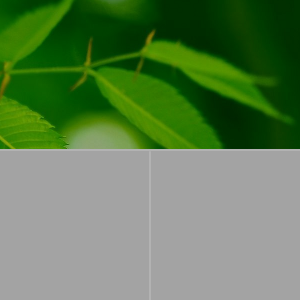
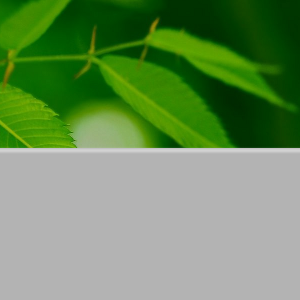
5days forecast and slide effect

Changed region(s): [[0.0, 0.0, 1.0, 0.51], [0.3, 0.0, 0.45, 0.06]]

diff --git a/src/pad_detail.py b/src/pad_detail.py
@@ -9,7 +9,7 @@ from gettext import gettext as _
 gettext.bindtextdomain("newX", "../locale")
 gettext.textdomain("newX")
 
-from utils import (fade_in, fade_out)
+from utils import (fade_in, fade_out, fancy_move_x)
 
 class WeatherForecastWindow(gtk.Window):
     '''
@@ -27,12 +27,37 @@ class WeatherForecastWindow(gtk.Window):
         self.set_skip_taskbar_hint(True)
         self.set_colormap(gtk.gdk.Screen().get_rgba_colormap())        
         
+        self.DRAG_POS_X = 0
+        
         self.area = gtk.DrawingArea()
         self.area.add_events(gtk.gdk.ALL_EVENTS_MASK)
         self.area.connect("expose-event", self.area_expose, weather_info)
+        self.area.connect("enter-notify-event", self.enter_notify_callback)
+        self.area.connect("leave-notify-event", lambda w, e : self.self_fade_out_destroy(self.master_win))
+        self.area.connect("button-press-event", self.button_press_callback)
+        self.area.connect("button-release-event", self.button_release_callback)
         
         self.add(self.area)
         self.show_all()
+        
+    def enter_notify_callback(self, widget, event):
+        if hasattr(self, "fade_out_id"):
+            gobject.source_remove(self.fade_out_id)
+        if hasattr(self, "destroy_id"):
+            gobject.source_remove(self.destroy_id)
+        self.set_opacity(1)
+        
+    def button_press_callback(self, widget, event):
+        coord_x = event.x
+        coord_y = event.y
+
+        if 0 <= coord_x <= 300 and 150 <= coord_y <= 300:
+            self.drag_begin_pos = coord_x
+            self.drag_begin_time = event.time
+        
+    def button_release_callback(self, widget, event):
+        v = (event.x - self.drag_begin_pos) / (event.time - self.drag_begin_time)
+        gobject.timeout_add(10, fancy_move_x, 10, v, self, -450, 0)
 
     def area_expose(self, widget, event, weather_info):
         cr = widget.window.cairo_create()
@@ -70,52 +95,40 @@ class WeatherForecastWindow(gtk.Window):
         cr.move_to(10, 96)
         context.update_layout(layout)
         context.show_layout(layout)
+        
+        pixbuf_sep = gtk.gdk.pixbuf_new_from_file("../data/images/seperator.png")
+        
+        for i in 1, 2, 3, 4, 5:
+            cr.set_source_rgb(0, 0, 0)
+            layout.set_text(weather_info["forecast" + str(i)]["text"])
+            cr.move_to(self.DRAG_POS_X + 10 + 150 * (i - 1), 263)
+            context.update_layout(layout)
+            context.show_layout(layout)
+        
+            layout.set_text(weather_info["forecast" + str(i)]["low"] + weather_info["forecast" + str(i)]["high"])
+            cr.move_to(self.DRAG_POS_X + 10 + 150 * (i - 1), 280)
+            context.update_layout(layout)
+            context.show_layout(layout)
+        
+            layout.set_text(weather_info["forecast" + str(i)]["day"])
+            cr.move_to(self.DRAG_POS_X + 105 + 150 * (i - 1), 280)
+            context.update_layout(layout)
+            context.show_layout(layout)
 
-        cr.set_source_rgb(0, 0, 0)
-        layout.set_text(weather_info["forecast1"]["text"])
-        cr.move_to(10, 263)
-        context.update_layout(layout)
-        context.show_layout(layout)
-        
-        layout.set_text(weather_info["forecast1"]["low"] + "~" + weather_info["forecast1"]["high"])
-        cr.move_to(10, 280)
-        context.update_layout(layout)
-        context.show_layout(layout)
-        
-        layout.set_text(_("Today"))
-        cr.move_to(100, 280)
-        context.update_layout(layout)
-        context.show_layout(layout)
+            cr.set_source_pixbuf(pixbuf_sep, self.DRAG_POS_X + 149 * i, 175)
+            cr.paint()
 
-        layout.set_text(weather_info["forecast2"]["text"])
-        cr.move_to(165, 263)
-        context.update_layout(layout)
-        context.show_layout(layout)
-        
-        layout.set_text(weather_info["forecast2"]["low"] + "~" + weather_info["forecast2"]["high"])
-        cr.move_to(165, 280)
-        context.update_layout(layout)
-        context.show_layout(layout)
-        
-        layout.set_text(_("Tomorrow"))
-        cr.move_to(240, 280)
-        context.update_layout(layout)
-        context.show_layout(layout)
 
-        pixbuf1 = gtk.gdk.pixbuf_new_from_file("../data/images/icons/" + weather_info["forecast1"]["pic"] + ".png")
-        cr.set_source_pixbuf(pixbuf1, 10, 160)
-        cr.paint()
-        
-        pixbuf2 = gtk.gdk.pixbuf_new_from_file("../data/images/icons/" + weather_info["forecast2"]["pic"] + ".png")
-        cr.set_source_pixbuf(pixbuf2, 160, 160)
-        cr.paint()
-
-        
-        self.set_opacity(0)
-        gobject.timeout_add(50, fade_in, self)
+            pixbuf_forecast = gtk.gdk.pixbuf_new_from_file("../data/images/icons/" + 
+                                                           weather_info["forecast" + str(i)]["pic"] + ".png")
+            cr.set_source_pixbuf(pixbuf_forecast, self.DRAG_POS_X + 10 + 150 * (i - 1), 165)
+            cr.paint()
         
         
-    def self_fade_out_destroy(self):
+    def self_fade_out_destroy(self, master_win):
         self.set_opacity(1)
-        gobject.timeout_add(30, fade_out, self)
-        gobject.timeout_add(700, self.destroy)
+        self.master_win = master_win
+        self.fade_out_id = gobject.timeout_add(30, fade_out, self)
+        self.destroy_id = gobject.timeout_add(700, self.destroy)
+        if hasattr(master_win, "forecast_window"):
+            del master_win.forecast_window

diff --git a/src/yahoo_service.py b/src/yahoo_service.py
@@ -117,26 +117,45 @@ def get_weather_information_by_woeid(woeid, place):
         if weather_condition["visibility"] == u"":
             weather_condition["visibility"] = _("Unknown")
         
-        weather_forecast_eles = root.getElementsByTagName("yweather:forecast")
-        for index, ele in enumerate(weather_forecast_eles):
-            index += 1
-            weather_condition["forecast" + str(index)] = {}
-            weather_condition["forecast" + str(index)]["low"] = ele.getAttribute("low")
-            weather_condition["forecast" + str(index)]["high"] = ele.getAttribute("high") + u"\u2103"
-            weather_condition["forecast" + str(index)]["code"] = ele.getAttribute("code")
-            weather_condition["forecast" + str(index)]["text"] = code_icon_dict[int(ele.getAttribute("code"))][1]
-            weather_condition["forecast" + str(index)]["pic"] = code_icon_dict[int(ele.getAttribute("code"))][0]
-        
         weather_condition["woeid"] = woeid        
         weather_condition["location"] = place
+        
+        link = root.getElementsByTagName("link")[0].childNodes[0].nodeValue
+        zipcode = link.split(r"/")[-1].split(".")[0]
 
-        weather_info_file = open(config_dir + "weather_info_file", "w")
-        pickle.dump(weather_condition, weather_info_file)
-        weather_info_file.close()
+        get_5_days_forecast(zipcode, weather_condition)
+        
         return weather_condition
     except Exception, e:
         print e
         return None
+
+def get_5_days_forecast(zipcode, weather_condition):
+    try:
+        yql = "select * from rss where url='http://xml.weather.yahoo.com/forecastrss/%s.xml'" % zipcode
+        quoted_yql = urllib.quote_plus(yql.decode(sys.stdin.encoding).encode('utf8'))
+        xml_str = urllib.urlopen("http://query.yahooapis.com/v1/public/yql?q=" + quoted_yql).read()
+        
+        dom = minidom.parseString(xml_str)
+        root = dom.documentElement
+        weather_forecast_eles = root.getElementsByTagName("yweather:forecast")
+        for index, ele in enumerate(weather_forecast_eles):
+            index += 1
+            weather_condition["forecast" + str(index)] = {}
+            weather_condition["forecast" + str(index)]["low"] = ele.getAttribute("low") + "~"
+            weather_condition["forecast" + str(index)]["high"] = ele.getAttribute("high") + u"\u2103"
+            weather_condition["forecast" + str(index)]["code"] = ele.getAttribute("code")
+            weather_condition["forecast" + str(index)]["day"] = ele.getAttribute("day")
+            weather_condition["forecast" + str(index)]["text"] = code_icon_dict[int(ele.getAttribute("code"))][1]
+            weather_condition["forecast" + str(index)]["pic"] = code_icon_dict[int(ele.getAttribute("code"))][0]
+        
+        weather_info_file = open(config_dir + "weather_info_file", "w")
+        pickle.dump(weather_condition, weather_info_file)
+        weather_info_file.close()
+    except Exception, e:
+        print e
+        return None
+    
 
 def get_place_by_woeid(woeid):
     '''

diff --git a/src/weather_widget.py b/src/weather_widget.py
@@ -88,17 +88,17 @@ class WeatherPad(gtk.Window):
                 pos_x = temp_x 
                 pos_y = temp_y + hight
                 self.forecast_window = WeatherForecastWindow(self.weather_information, pos_x, pos_y)
+                self.forecast_window.set_opacity(0)
+                gobject.timeout_add(50, fade_in, self.forecast_window)
         else:
             if hasattr(self, "forecast_window"):            
                 if self.forecast_window:
-                    self.forecast_window.self_fade_out_destroy()
-                    del self.forecast_window
+                    self.forecast_window.self_fade_out_destroy(self)
             
     def leave_notify_callback(self, widget, event):
         if hasattr(self, "forecast_window"):            
             if self.forecast_window:
-                self.forecast_window.self_fade_out_destroy()
-                del self.forecast_window
+                self.forecast_window.self_fade_out_destroy(self)
 
     def get_date_time_weekday(self):
         '''
@@ -166,9 +166,10 @@ class WeatherPad(gtk.Window):
         woeid_list = yahoo_service.get_woeid_by_place(text_entry.get_text())
         for woeid in woeid_list:
             place_dict = yahoo_service.get_place_by_woeid(woeid)
-            button = gtk.Button(place_dict["all"])
-            button.connect("clicked", self.place_button_clicked, woeid, text_entry.get_text())
-            vbox.pack_start(button, False, False, 0)
+            if place_dict:
+                button = gtk.Button(place_dict["all"])
+                button.connect("clicked", self.place_button_clicked, woeid, text_entry.get_text())
+                vbox.pack_start(button, False, False, 0)
         vbox.remove(label)
         self.show_all()
             
@@ -178,11 +179,10 @@ class WeatherPad(gtk.Window):
         '''
         self.woeid = woeid
         self.location = place
-        # the same trick here :-)
-        #gobject.timeout_add(1, self.update_weather_information)
-        self.update_weather_information()
+
         gobject.timeout_add(10, fade_out, self, 0.01, self.cancel_place_button_show_main)
-        
+        # the same trick here :-)
+        gobject.timeout_add(2000, self.update_weather_information)
     
     
     # I splited the update_weather_information into two parts for the purpose of refreshing the ui,

diff --git a/src/main.py b/src/main.py
@@ -1,4 +1,5 @@
 import os
+import sys
 import pickle
 import gtk
 from weather_widget import WeatherPad
@@ -11,6 +12,8 @@ gettext.textdomain('newX')
 
 if(not os.path.exists(config_dir)):
     os.makedirs(config_dir)
+    open(config_dir + "weather_info_file", "w").close
+elif not os.path.exists(config_dir + "weather_info_file"):
     open(config_dir + "weather_info_file", "w").close
 
 weather_info_file = open(config_dir + r"weather_info_file")
@@ -35,11 +38,14 @@ if(not file_content):
         "code" : _("Unknown"),
         "pic" : "yahoo19"
         }
-    weather_info["forecast2"] = weather_info["forecast1"]
+    weather_info["forecast2"] = weather_info["forecast3"] = weather_info["forecast4"] = weather_info["forecast5"] = weather_info["forecast1"]
 else:    
-    weather_info = pickle.load(weather_info_file)
-    weather_info_file.close()
-# weather_info["from"] = "from_file"
+    try:
+        weather_info = pickle.load(weather_info_file)
+        weather_info_file.close()
+    except Exception:
+        open(config_dir + "weather_info_file", "w").close
+        sys.exit()
 
 WeatherPad(weather_info)
 gtk.main()

diff --git a/src/utils.py b/src/utils.py
@@ -34,20 +34,18 @@ def fade_out(widget, step=0.05, callback=None, *user_data):
         return False
     return True
 
-def fancy_move_x(time, v, widget, attr, condition, limit_low, limit_high, step = 0.003):
+def fancy_move_x(time, v, widget, limit_low, limit_high, step = 0.005):
     direction = v 
-    
     if v > 0:
         v = v - step
     else:
         v = v + step
         
-    if getattr(widget, condition) and v * direction > 0 and limit_low <= widget.pos+v*time <=limit_high:
-        temp_attr = getattr(widget, attr)
-        temp_attr += v * time
+    if v * direction > 0 and limit_low <= widget.DRAG_POS_X+v*time <=limit_high:
+        widget.DRAG_POS_X += v * time
         widget.queue_draw()
         
-        gobject.timeout_add(10, fancy_move_x, 10, v, widget, attr, condition, limit_low, limit_high)
+        gobject.timeout_add(time, fancy_move_x, time, v, widget, limit_low, limit_high)
 
 
 def compute_wind(wind_speed, wind_direction):

diff --git a/src/.#yahoo_service.py b/src/.#yahoo_service.py
@@ -1,0 +1,1 @@
+hualet@Satellite.6360:1356927457
